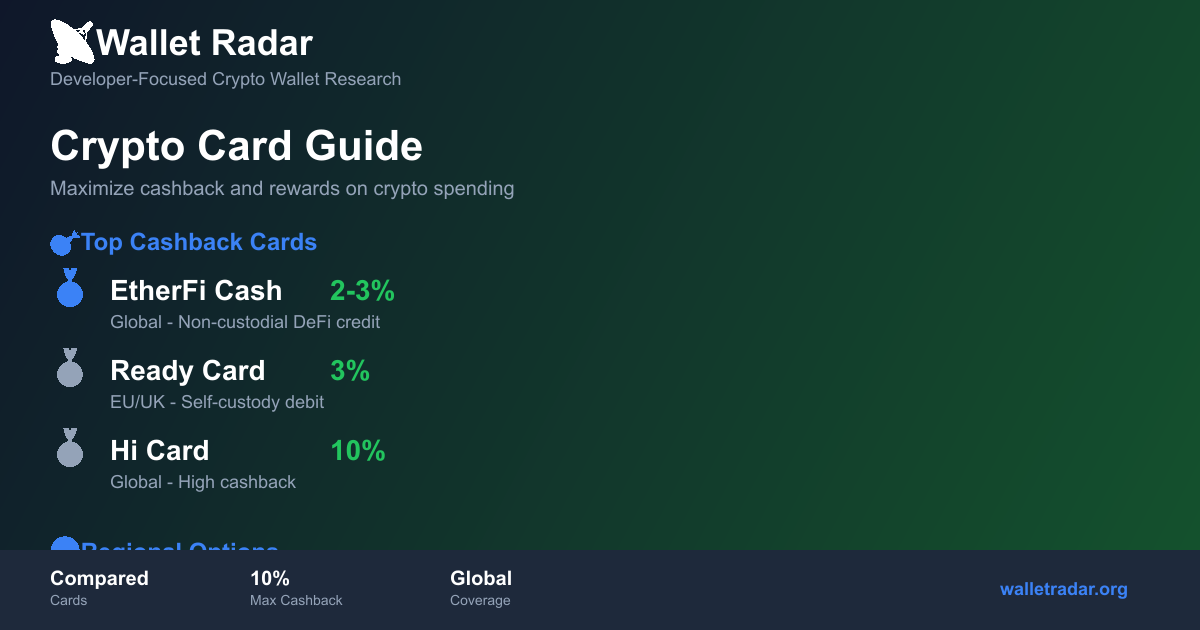
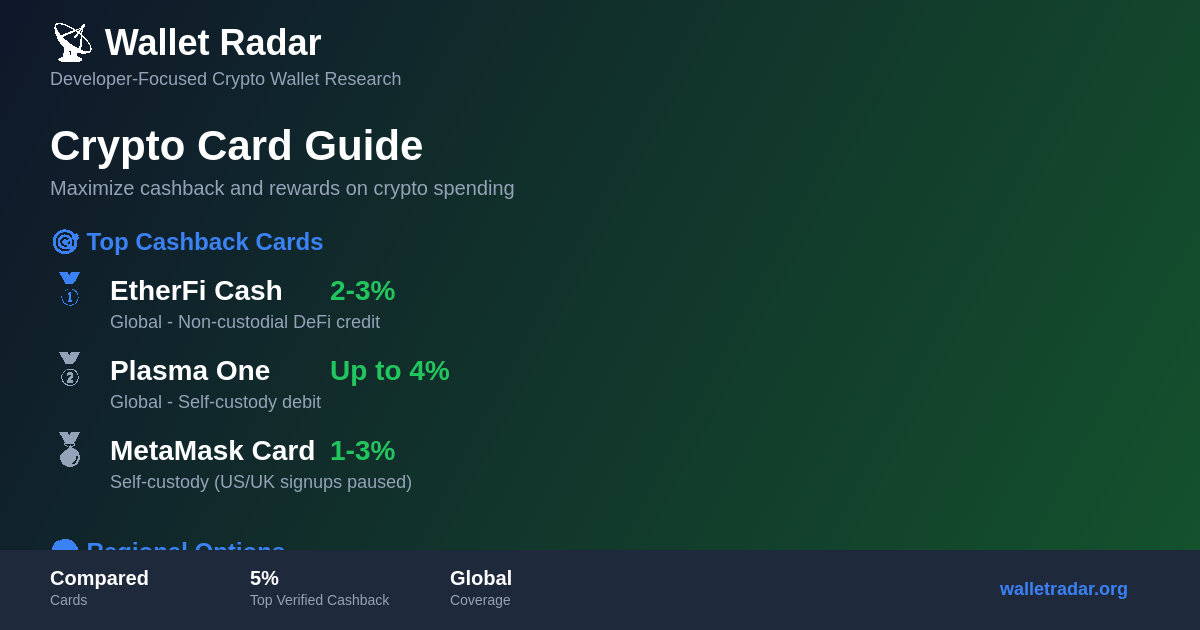
fix(cards): correct Fuse entity, Ethena terms, KAST tiers, stale text and OG images

diff --git a/frontend/scripts/generate-og-images.js b/frontend/scripts/generate-og-images.js
@@ -66,8 +66,8 @@ const WALLET_DATA = {
     { name: 'EtherFi Cash', cashback: '2-3%', type: 'Credit', region: 'Global', status: '🟢' },
     { name: 'Plasma One', cashback: 'Up to 4%', type: 'Debit', region: 'Global', status: '🟢' },
     { name: 'MetaMask Card', cashback: '1-3%', type: 'Debit', region: 'Global', status: '🟡' },
-    { name: 'Avici Money', cashback: 'TBD', type: 'Debit', region: 'Global', status: '🟢' },
-    { name: 'Gemini Card', cashback: 'TBD', type: 'Credit', region: 'US', status: '🟢' },
+    { name: 'Avici Money', cashback: '0%', type: 'Credit', region: 'Global', status: '🟢' },
+    { name: 'Gemini Card', cashback: 'Up to 4%', type: 'Credit', region: 'US', status: '🟢' },
   ],
   ramps: [
     // Data from RAMPS.md - Top 5 by score
@@ -345,7 +345,7 @@ function generateCryptoCardsImage() {
   // Footer
   drawFooter(ctx, [
     { value: 'Compared', label: 'Cards' },
-    { value: '10%', label: 'Max Cashback' },
+    { value: '5%', label: 'Top Verified Cashback' },
     { value: 'Global', label: 'Availability' },
   ]);
   
@@ -670,7 +670,7 @@ function generateCryptoCardsDetailsImage() {
   ctx.fillText('🌍 Regional Options', 50, y);
 
   const regions = [
-    '• US: Coinbase Card (1-4%), Fold Card (3-5%)',
+    '• US: Gemini Card (up to 4%), Coinbase Card, Fold Card',
     '• EU/UK: Gnosis Pay, Plasma One (up to 4%)',
     '• Global: EtherFi Cash (2-3%), Plasma One (up to 4%)',
   ];
@@ -686,7 +686,7 @@ function generateCryptoCardsDetailsImage() {
   // Footer
   drawFooter(ctx, [
     { value: 'Compared', label: 'Cards' },
-    { value: '10%', label: 'Max Cashback' },
+    { value: '5%', label: 'Top Verified Cashback' },
     { value: 'Global', label: 'Coverage' },
   ]);
 

diff --git a/CRYPTO_CARDS_DETAILS.md b/CRYPTO_CARDS_DETAILS.md
@@ -5,16 +5,16 @@
 > **Source of truth note:** Current `Score` values are generated from the visible columns in [CRYPTO_CARDS.md](./CRYPTO_CARDS.md) via `scripts/sync_table_scores.js` (`2026-04-visible-columns-v3`). If a long-form section below mentions older rankings or manual bonuses, trust the main comparison table.
 
 <!-- GENERATED_CARDS_SNAPSHOT_START -->
-> **Current generated snapshot:** EtherFi Cash (92, Self-custody DeFi, 🟢), Plasma One (81, USDT spend card, 🟢), MetaMask Card (77, Self-custodial spending (US/UK signups paused), 🟢), and Avici Money (76, Collateral-backed, 🟢). Regenerated from [CRYPTO_CARDS.md](./CRYPTO_CARDS.md) by `scripts/sync_table_scores.js` using methodology `2026-04-visible-columns-v3`.
+> **Current generated snapshot:** EtherFi Cash (92, Self-custody DeFi, 🟢), Ethena Pay (84, Non-US AVAX-cashback spend card (47 listed jurisdictions; EU coming soon), 🟢), Plasma One (81, USDT spend card, 🟢), and MetaMask Card (77, Self-custodial spending (US/UK signups paused), 🟢). Regenerated from [CRYPTO_CARDS.md](./CRYPTO_CARDS.md) by `scripts/sync_table_scores.js` using methodology `2026-04-visible-columns-v3`.
 
 ### Current Top Rows (generated)
 | Rank | Card | Score | Best For | Rec |
 | ---- | ---- | ----- | -------- | --- |
 | 1 | **EtherFi Cash** | 92 | Self-custody DeFi | 🟢 |
-| 2 | **Plasma One** | 81 | USDT spend card | 🟢 |
-| 3 | **MetaMask Card** | 77 | Self-custodial spending (US/UK signups paused) | 🟢 |
-| 4 | **Avici Money** | 76 | Collateral-backed | 🟢 |
-| 5 | **CryptoSpend** | 76 | Australia (Wayex) | 🟢 |
+| 2 | **Ethena Pay** | 84 | Non-US AVAX-cashback spend card (47 listed jurisdictions; EU coming soon) | 🟢 |
+| 3 | **Plasma One** | 81 | USDT spend card | 🟢 |
+| 4 | **MetaMask Card** | 77 | Self-custodial spending (US/UK signups paused) | 🟢 |
+| 5 | **Avici Money** | 76 | Collateral-backed | 🟢 |
 <!-- GENERATED_CARDS_SNAPSHOT_END -->
 
 **Last Updated:** October 10, 2026 (Oct 2026 issuer-source verification: see [Verification Log](#verification-log-october-2026). Custody: KAST, 1inch, Jupiter, CryptoSpend/Wayex, CoinJar, Spendly, Bitget Wallet Card, and Nummus Wallet Card are CeFi/card-platform; OKX Card is Exch because OKX Pay holds the balance.)
@@ -1022,22 +1022,21 @@ Kast is a stablecoin banking platform offering Visa debit cards that let users s
 **Business Support:** ❌ Personal only (virtual USD bank accounts available)
 
 **Key Features:**
-- **Multiple card tiers:** K Card, X Card, Solana series, Founders Card
+- **Card tiers:** Standard, Premium, Private
 - **Stablecoin-native:** USDT, USDC, USDe support
 - **Virtual USD accounts:** ACH and Fedwire support
 - **24/7 support:** Available across all tiers
 - **Instant virtual cards:** Available in <2 minutes post-KYC
-- **Special editions:** Solana Illuma (light-up metal), Gold, Solid Gold
 
 **Rewards Structure:**
 | Tier | Annual Fee | Cashback | Notes |
 |------|------------|----------|-------|
 | Standard | $0 | 1.5% | Kast Points (Oct 2026 site) |
-| Premium | $1,000/year | 2% | Promo up to 10% to mid-2027 |
+| Premium | $1,000/year | 2% | Cashback 2%; separate Reserve rate on balances up to 10% (not cashback) |
 | Private | $10,000/year | 3% | Cashback 3%; separate Reserve rate on balances up to 12% (not cashback) |
 
 **Fees:**
-- Annual Fee: $20-$10,000 (tier dependent)
+- Annual Fee: $0 (Standard) to $10,000/year (Private)
 - Foreign Transaction Fee: 2% (on non-USD transactions)
 - Standard Physical Card: Free (pay shipping $40)
 - ATM Withdrawal: $3 + 2% (USD), additional 2% FX fee (non-USD)
@@ -1276,9 +1275,9 @@ Tuyo Card is a self-custodial Visa prepaid card enabling USDC spending on Base b
 
 ### Fuse Wallet Card
 
-**Website:** [fuse.io/wallet](https://fuse.io/wallet)
+**Website:** [fusewallet.com](https://fusewallet.com)
 
-**Status:** ✅ Active (US launch via Bridge partnership)
+**Status:** ⚠ Verify (fusewallet.com advertises the card; card terms not read)
 
 **Overview:**
 Fuse Pay is a virtual Visa prepaid card integrated into the Fuse Solana smart wallet, enabling stablecoin spending directly from your wallet. Partnership with Bridge for payment processing.
@@ -1585,15 +1584,17 @@ Please visit [reap.global](https://reap.global) directly in a web browser to ver
 
 ### Highest Cash Back Rates
 
-1. **Crypto.com Obsidian** - 8% (with $400k+ CRO stake)
-2. **Binance Card** - Up to 8% (with BNB holdings)
-3. **Wirex Card** - Up to 8% (WXT rewards)
-4. **Crypto.com Icy White/Frosted Rose Gold** - 5% (with $40k CRO stake)
-5. **Fold Card** - Up to 5% (Bitcoin, rotating categories)
-6. **Coinbase Card (with Coinbase One)** - Up to 4% (crypto rewards)
+Headline maximums; many require staking or tiers, and several are unverified (see [CRYPTO_CARDS.md](./CRYPTO_CARDS.md) for current figures).
+
+1. **Wirex Card** - Up to 8% (WXT rewards; unverified)
+2. **Plasma One** - Up to 4% in XPL (Platinum tier)
+3. **Gemini Card** - Up to 4%
+4. **Crypto.com Visa** - 0-4.5% by tier (issuer page, Oct 2026)
+5. **Ethena Pay** - 4-5% in AVAX, falling by monthly-spend band
+6. **Kast** - 1.5-3% by tier
 7. **Crypto.com Royal Indigo/Jade Green** - 3% (with $4k CRO stake)
 8. **Plutus Card** - 3% (PLU rewards)
-9. **Gemini Card** - Up to 3% (category bonuses)
+9. **Gemini Card** - Up to 4% (category bonuses)
 
 ### Base Cash Back Rates (No Staking)
 
@@ -1668,7 +1669,6 @@ Please visit [reap.global](https://reap.global) directly in a web browser to ver
 - Plutus Card (EU, UK)
 - Swissborg Card (EU)
 - 1inch Card (EU, UK)
-- Ready Card (EU, UK)
 
 ### Canada
 - Shakepay Card
@@ -1863,7 +1863,7 @@ Retrieved 2026-10-10 from issuer pages unless marked *(secondary)*. Page text wa
 | Jupiter | Cashback / Rewards | 4-10% / Points | 2% / USDC | Docs state base 2%; Rain cards keep tokens on-chain as collateral; no USDC-payout statement found; issuers Rain and DCS |
 | Nexo | Cashback / FX | up to 2% / "FX fees" | 0.5-2% / 0.2-2.5% | Issuer DiPocket UAB |
 | ToonPay | FX | 2% | 2% + 2% processing | Cashback 1% base |
-| Fuse | Custody | 🔐 Self | 🔐 Self (unverified) | fuse.io describes a "non-custodial Visa card"; official card terms not confirmed, so the earlier CeFi reclassification was reverted |
+| Fuse | Custody | 🔐 Self | 🔐 Self | fusewallet.com (checked 2026-10-10): "self-custodial smart accounts" (marketing); card issued by Lead Bank, program manager Bridge Ventures, platform provider Squads Labs. fuse.io is a different entity (Fuse Network) and was cited in error earlier. Card terms not read |
 | Shakepay | Cashback / FX | 1.5% / 0% | 1-1.5% / 0-3% | Base tier 3%, Blue 0% |
 | Meow | Cashback | up to 2% | up to 1.5% | Issuer is Lead Bank (not CFSB) |
 | Solflare | Status | ✅ | ⚠ | Cards paused pending new issuer |
@@ -1875,7 +1875,7 @@ Retrieved 2026-10-10 from issuer pages unless marked *(secondary)*. Page text wa
 | Spendly | Status | ✅ | ❌ | Domain parked *(secondary)* |
 | Hi Card, Bybit | Cashback | up to 10% / 2-10% | TBD | Official pages show no figures |
 | Fold, Revolut, Gnosis Pay, Coinbase | Cashback | various | TBD | Not stated on retrievable official pages |
-| Ethena Pay | Status / Cashback / FX / Issuer | 🔄 / up to 5% / TBD / unnamed | ✅ beta (2026-09-01) / 4-5% AVAX (Standard/Pro/VIP) / ~1% Visa FX / Visa via Third National, program manager Rain | Sources: pay.ethena.fi/card-terms (terms dated 2026-06-01), The Block 2026-09-01, CoinMarketCap *(secondary)*; 48 countries, US persons and EU excluded; ATM $1 + 0.65%; annual fee TBD; DefiLlama snippet suggests monthly caps (unverified) |
+| Ethena Pay | Status / Cashback / FX / Issuer | 🔄 / up to 5% / TBD / unnamed | ✅ live beta / 4-5% AVAX (Standard/Pro/VIP) / ~1% Visa FX / Visa via Third National, program manager Rain | Sources: pay.ethena.fi/card-terms (effective 2026-06-01), pay.ethena.fi/pricing (checked 2026-10-10: no cap on cashback; rate falls by monthly-spend band, e.g. Standard 4% to $2,500, 1% to $4,000, 0% above; free account, ATM $1 + 0.65%), pay.ethena.fi/terms Appendix 1 (47 jurisdictions; EU "coming soon"; US persons excluded). Launch date 2026-09-01 and ~400 early users are from secondary press only (The Defiant, CoinMarketCap) |
 
 ### Custody
 
@@ -1901,4 +1901,4 @@ COCA Visa (coca.xyz; "non-custodial", up to 8%, issuer Wirex *secondary*), Wirex
 
 ---
 
-*Last updated: June 2026 - Comprehensive score recalculation with verified data. Key corrections: Ready Card 3% (not 10%), Binance 3% (not 8%), Crypto.com base 0%. Clarified card spend-path custody scoring.*
+*Last updated: October 2026 - Comprehensive score recalculation with verified data. Key corrections: Ready Card 3% (not 10%), Binance 3% (not 8%), Crypto.com base 0%. Clarified card spend-path custody scoring.*

diff --git a/CRYPTO_CARDS.md b/CRYPTO_CARDS.md
@@ -5,12 +5,12 @@
 | Card | Score | Type | Custody | Biz | Region | Cash Back | Annual Fee | FX Fee | Rewards | Status | Best For | Rec |
 | ---- | ----- | ---- | ------- | --- | ------ | --------- | ---------- | ------ | ------- | ------ | -------- | --- |
 | [**EtherFi Cash**](https://ether.fi/cash) | 92 | Credit | 🔐 Self | ✅ | 🌍 Global | 2-3% | $0 | 1% | Multi | ✅ | Self-custody DeFi | 🟢 |
+| [**Ethena Pay**](https://pay.ethena.fi) | 84 | Debit | 🔐 Self | ❌ | 🌍 Global* | 4-5% | $0 | ~1% | AVAX | ✅ | Non-US AVAX-cashback spend card (47 listed jurisdictions; EU coming soon) | 🟢 |
 | [**Plasma One**](https://www.plasma.org/personal) | 81 | Debit | 🔐 Self | ❌ | 🌍 Global* | Up to 4% | $0 (Lite) | 0-1% | XPL | ✅ | USDT spend card | 🟢 |
 | [**MetaMask Card**](https://metamask.io/card) (@MetaMask) | 77 | Debit | 🔐 Self | ❌ | 🌍 Global* | 1-3% | $0-$199/yr | 0% | Multi | ⚠ | Self-custodial spending (US/UK signups paused) | 🟢 |
 | [**Avici Money**](https://avici.money) (@AviciMoney) | 76 | Credit | 🔐 Self | ⚠ | 🌍 Global | 0% | $0 | 1-3% | Multi | ✅ | Collateral-backed | 🟢 |
 | [**CryptoSpend**](https://www.wayex.com/en-US/) | 76 | Debit | 📋 CeFi | ❌ | 🌍 Global* | 1% | $0 | 0% | BTC, ETH | ✅ | Australia (Wayex) | 🟢 |
 | [**Gemini Card**](https://www.gemini.com/credit-card) | 76 | Credit | 🏦 Exch | ❌ | 🇺🇸 US | Up to 4% | $0 | 0% | BTC, ETH | ✅ | Credit building | 🟢 |
-| [**Ethena Pay**](https://pay.ethena.fi) | 74 | Debit | 🔐 Self | ❌ | 🌍 Global* | 4-5% | TBD | ~1% | AVAX | ✅ | Non-US/EU AVAX-cashback spend card (beta) | 🟢 |
 | [**Kraken Card**](https://www.kraken.com/kraken-card) | 74 | Debit | 🏦 Exch | ⚠ | 🇺🇸🇪🇺 US/EU | 0.5-2% | $0 | 0-1% | Multi | ✅ | Cloudflare-protected | 🟢 |
 | [**Payy**](https://payy.network) (@payy_link) | 72 | Debit | 🔐 Self | ❌ | 🌍 Global | 0% | $0 | 0% | USDC | ⚠ | Privacy-focused | 🟢 |
 | [**ToonPay Card**](https://www.toonpay.io/) (@ToonPayOfficial) | 72 | Debit | 📋 CeFi | ❌ | 🌍 Global | 1-15%* | $0 annual ($12 KYC, $80 card) | 2% + 2% processing | $TOON | ✅ | High-cashback community spend | 🟢 |
@@ -18,16 +18,16 @@
 | [**Crypto.com Visa**](https://crypto.com/us/cards) | 71 | Debit | 🏦 Exch | ✅ | 🌍 Global | 0-4.5% | $0 | 0-3% | CRO | ✅ | CRO stakers ⚠ | 🟢 |
 | [**Kast**](https://kast.xyz) (@kastxyz) | 71 | Debit | 📋 CeFi | ✅ | 🌍 Global | 1.5-3% | $0-$10,000/yr | Up to 2-3% | Kast Points | ✅ | Stablecoin banking (custodial terms) | 🟢 |
 | [**OKX Card**](https://www.okx.com) | 71 | Debit | 🏦 Exch | ⚠ | 🇪🇺 EU | 2-10% | $0 | TBD | Stables | 🔄 | OKX Pay EU users | 🟡 |
+| [**Fuse Wallet Card**](https://fusewallet.com) (@fusewallet) | 70 | Prepaid | 🔐 Self | ❌ | 🌍 Global* | 0% | $0 | 0% | USDC | ⚠ | Solana stablecoins | 🟢 |
 | [**Gnosis Pay**](https://gnosispay.com) | 70 | Debit | 🔐 Self | ⚠ | 🌍 Global* | TBD | €0 | 0% | GNO/SAFE | ✅ | DeFi-native | 🟢 |
 | [**1inch Card**](https://1inch.com/card) | 69 | Debit | 📋 CeFi | ❌ | 🇪🇺 EU/UK | Up to 2% | $0 | 0% | 1INCH | ✅ | DeFi users | 🟢 |
 | [**Tuyo**](https://tuyo.com/card) (@itstuyo) | 69 | Prepaid | 🔐 Self | ❌ | 🌍 Global* | 0% | $0 | ~1% | TUYO | ✅ | USDC on Base | 🟢 |
 | [**Meow Card**](https://www.meow.com/cards) (@meow) | 68 | Business | 📋 CeFi | ✅ | 🌍 Global | Up to 1.5% | $0 | TBD (avg ~2% savings) | USD cash | ✅ | Global startup finance ops | 🟢 |
 | [**Plutus Card**](https://plutus.it) | 68 | Debit | 📋 CeFi | ❌ | 🇬🇧 UK | 3-9% | £0 | 2.5% | PLU | ✅ | EU/UK perks | 🟢 |
 | [**Revolut Crypto**](https://www.revolut.com/crypto/crypto-card/) | 68 | Debit | 📋 CeFi | ⚠ | 🌍 Global | TBD | $0-$17/mo | 0-2% | Multi | ✅ | Fiat+Crypto | 🟢 |
-| [**Fuse Wallet Card**](https://www.fuse.io/) (@fusewallet) | 67 | Prepaid | 🔐 Self | ❌ | 🇺🇸 US* | 0% | $0 | 0% | USDC | ⚠ | Solana stablecoins | 🟡 |
 | [**Jupiter Card**](https://jup.ag/rewards) | 67 | Debit | 📋 CeFi | ❌ | 🌍 Global* | 2% | $0 | 1-1.8% | USDC | ⚠ | Solana/Jupiter users | 🟡 |
 | [**Nexo Card**](https://nexo.com/card) | 67 | Credit | 📋 CeFi | ✅ | 🇪🇺 EU/UK | 0.5-2% | $0 | 0.2-2.5% | NEXO | ✅ | Crypto credit | 🟡 |
-| [**ThorWallet**](https://thorwallet.org) (@THORWalletORG) | 67 | Debit | 🔐 Self | ❌ | 🌍 Global | 0.5% | $0-$124 one-off | 1.5% | Multi | ✅ | Cross-chain DeFi | 🟢 |
+| [**ThorWallet**](https://thorwallet.org) (@THORWalletORG) | 67 | Debit | 🔐 Self | ❌ | 🌍 Global | 0.5% | $0-$124 one-off | 1.5% | Multi | ✅ | Cross-chain DeFi | 🟡 |
 | [**Tria**](https://tria.so) (@useTria) | 67 | Prepaid | 🔐 Self | ❌ | 🌍 Global | Up to 6% | TBD | TBD | Stables | ⚠ | Token rewards | 🟢 |
 | [**Bitget Wallet Card**](https://web3.bitget.com/en/card) | 66 | Debit | 📋 CeFi | ❌ | 🌍 Global* | 2-3% | $0 ($10 activation) | 0-1.7% | Campaign | ⚠ | Bitget Wallet users | 🟡 |
 | [**Coinbase Card**](https://www.coinbase.com/card) | 64 | Debit | 🏦 Exch | ❌ | 🇺🇸 US | TBD | $0 | 0% | BTC, ETH | ✅ | Coinbase users | 🟡 |
@@ -115,7 +115,7 @@
 **Key Corrections (February 2026):**
 - **Custody recheck (June 2026):** KAST changed from **🔐 Self** to **📋 CeFi** because official KAST terms say transferred virtual assets are sold to KAST and managed through a custodian for KAST. CryptoSpend/Wayex and Spendly also moved from **🔐 Self** to **📋 CeFi** because official materials describe custodial/prepaid top-up models rather than user-controlled keys through card spend.
 - **Second-pass custody review (June 2026):** Jupiter Card changed from **🔐 Self** to **📋 CeFi** because official Jupiter docs say Spend/card balances are managed by regulated financial partners. Bitget Wallet Card changed from **🔐 Self** to **📋 CeFi** because card terms authorize program access/liquidation of wallet assets and DCS card prepayments are not held for the user. Nummus Wallet Card returned to **📋 CeFi** because the card is issued/managed by external financial providers even though Nummus can integrate a non-custodial crypto wallet.
-- **OKX custody upgrade (June 2026):** OKX Card changed from **🏦 Exch** to **🔐 Self** based on official OKX Card/OKX Pay docs stating stablecoins remain in the user's wallet until purchase.
+- **OKX custody (superseded, Oct 2026):** a June 2026 note moved OKX Card to Self; the Oct 2026 review (operator ruling) returned it to **🏦 Exch** because OKX Pay holds the balance. OKX's own explainer is ambiguous.
 - **Wirex custody note (June 2026):** Wirex remains **📋 CeFi** in this table because self-custody evidence found during review maps to Wirex One / Wirex BaaS, not clearly to the existing legacy Wirex Card row.
 - **Gnosis Pay**: Region expanded from EU/UK to **🌍 Global\*** (EEA, UK, Brazil, Argentina, Mexico, Colombia, Philippines, Thailand, Japan, Singapore) - verified via gnosispay.com January 2026. **Not available in US.**
 - **MetaMask Card**: Available in EU, UK, Switzerland, Canada, select LATAM. **US on waitlist only** (not yet available). Metal card ($199/yr) offers 3% cashback, virtual card is 1%.
@@ -128,7 +128,7 @@
 - **Hi Card**: Website shows 2021-2022 copyright, card product status uncertain ⚠
 - **Kontigo**: ❌ Card program shut down by Rain in January 2026; company experienced $340K USDC hack affecting 1,005 users
 - **Tuyo**: Available in 41 countries (US, Spain, EU, LATAM) but NOT Australia; correct URL is tuyo.com/card
-- **Fuse Wallet Card**: US-only (except NY, LA, FL, AK); virtual Visa prepaid on Solana
+- **Fuse Wallet Card**: "available in over 18 countries" (excluded US states: NY, AK); virtual prepaid Visa issued by Lead Bank, program manager Bridge Ventures (fusewallet.com)
 - **Solflare Card**: UK/EEA only (not global); no cashback, raffle rewards until Feb 2026
 - **Bybit Card**: Bybit card page lists 2-10% cashback, free issuance, $100 ATM withdrawals free then 2% fee; product is not available to EEA customers and supports USD fiat + BTC/ETH/XRP/TON/USDT/USDC/MNT/BNB.
 - **Swissborg Card**: Card page (swissborg.com/card) returns 404 in headless Chromium

diff --git a/VERIFICATION_NOTES.md b/VERIFICATION_NOTES.md
@@ -128,7 +128,7 @@ Every current `CRYPTO_CARDS.md` row was reviewed in the June 2026 second pass. `
 | 25 | Nexo Card | 📋 CeFi | CLEAN | Nexo Card is tied to Nexo platform credit/debit balances. |
 | 26 | CryptoSpend / Wayex | 📋 CeFi | CHANGED | Wayex materials describe Wayex as a custodial wallet for the default app/card flow. |
 | 27 | ToonPay Card | 📋 CeFi | CLEAN | ToonPay uses a centralized prepaid card/top-up model. |
-| 28 | Fuse Wallet Card | 🔐 Self | UNVERIFIED | fuse.io says "non-custodial Visa card"; official card terms (Lead Bank issuer, Bridge) not retrieved. |
+| 28 | Fuse Wallet Card | 🔐 Self | UNVERIFIED | fusewallet.com: "self-custodial smart accounts"; issued by Lead Bank, program manager Bridge Ventures, 18+ countries, NY/AK excluded (card terms not read). fuse.io is a different entity. |
 | 29 | Reap | 📋 CeFi | CLEAN | Reap is a centralized business card/payment platform. |
 | 30 | Spendly | 📋 CeFi | CHANGED | Spendly terms describe crypto top-up/card loading without user-key custody through card spend. |
 | 31 | Shakepay Card | 📋 CeFi | CLEAN | Shakepay card spend uses Shakepay account balances. |

diff --git a/articles/best-crypto-card.md b/articles/best-crypto-card.md
@@ -2,7 +2,7 @@
 title: "Best Crypto Card in 2026"
 description: "Wallet Radar picks for crypto cards: EtherFi Cash (92), Plasma One (81), and MetaMask Card (77) lead the list."
 category: comparison
-lastUpdated: "2026-02-03"
+lastUpdated: "2026-10-10"
 author: "Wallet Radar"
 tags: ["comparison", "crypto-cards", "spending"]
 ---
